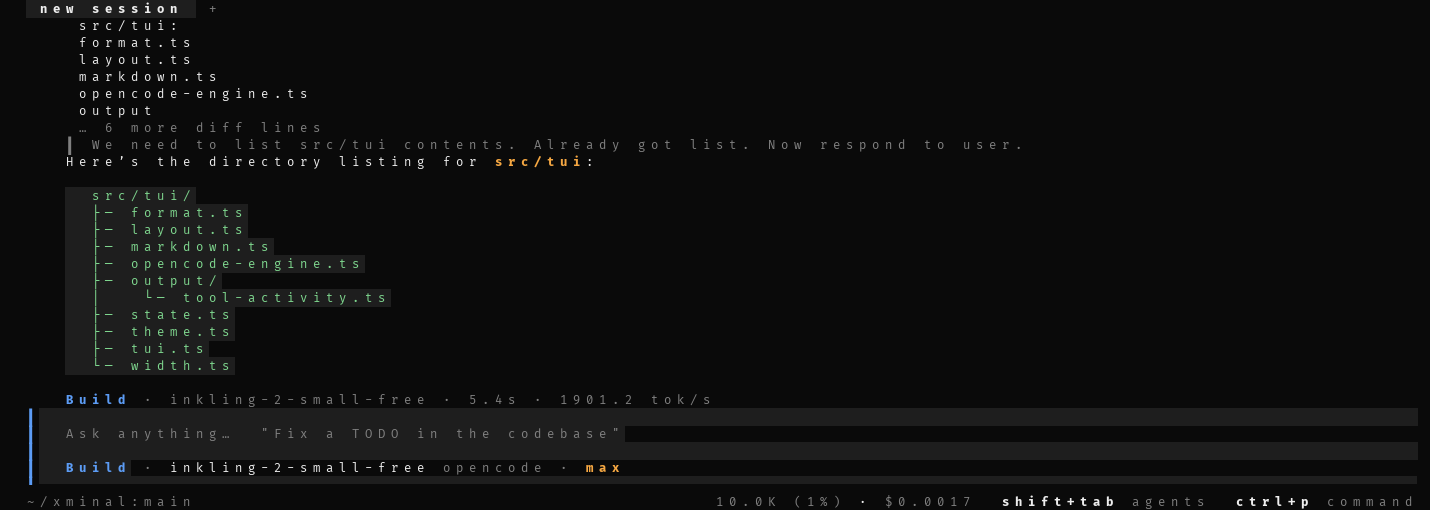
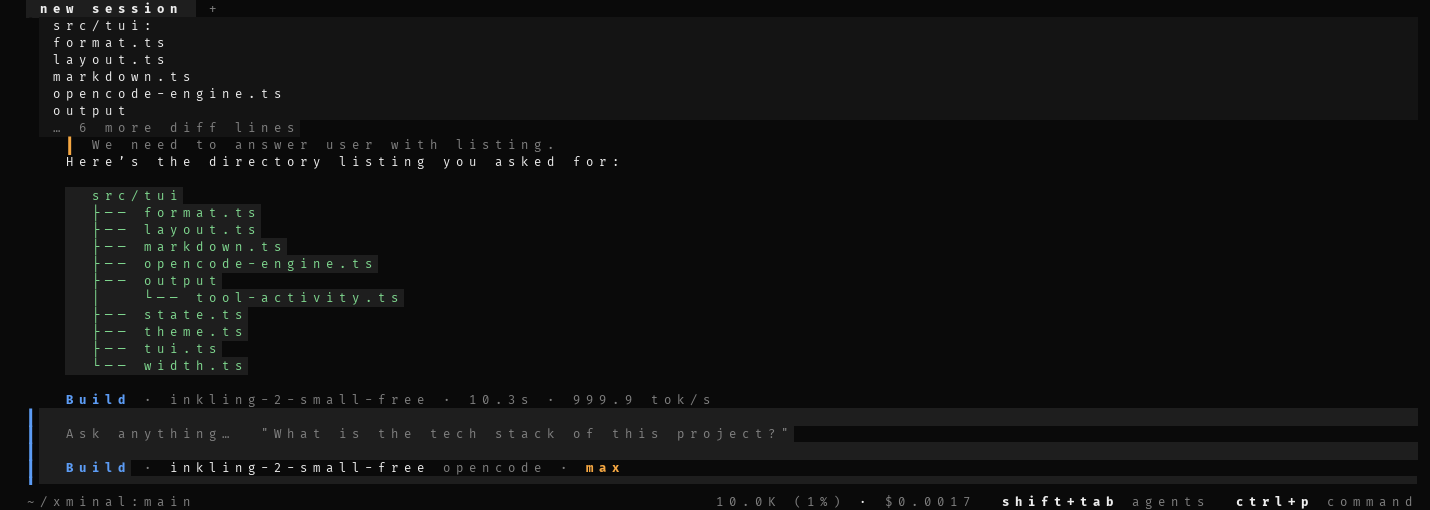
ui: opencode-style diff card + reasoning rule colour
- an edit/write diff renders as a block card (background-coloured ┃ rule +
  raised panel) like opencode's block tools
- the reasoning rule uses opencode's warning colour
- the rasterizer drops a trailing incomplete escape sequence (it printed the
  leftover bytes as text when a capture was cut mid-write)

diff --git a/src/tui/tui.ts b/src/tui/tui.ts
@@ -526,13 +526,22 @@ const sessionRows = (query: string): SessionRow[] => {
         }
         return rows;
       }
-      const out: string[] = renderActivity(a, Math.max(8, w - 5)).map((row) => `   ${row}`);
+      // opencode: an edit/write diff is a block card (rule + raised panel)
       if (a.preview && a.preview.length) {
+        const cardW = Math.max(8, w);
+        const rule = `${rgb(T.bg)}┃${RESET}`;
+        const rows: string[] = [];
         for (const row of a.preview) {
-          out.push(`    ${tintDiffRow(row, () => row, fgMuted, fgAccent, fgGreen, fgRed)}`);
+          const tinted = tintDiffRow(row, () => row, fgMuted, fgAccent, fgGreen, fgRed);
+          rows.push(`${rule}${bgRgb(T.panel)} ${tinted}${" ".repeat(Math.max(0, cardW - 2 - visible(tinted)))}${RESET}`);
         }
-        if (a.extraPreviewLines) out.push(`    ${fgMuted(`… ${a.extraPreviewLines} more diff lines`)}`);
-      } else if (a.status === "err" && a.detail) {
+        if (a.extraPreviewLines) {
+          rows.push(`${rule}${bgRgb(T.panel)} ${fgMuted(`… ${a.extraPreviewLines} more diff lines`)}${" ".repeat(Math.max(0, cardW - 2 - 30))}${RESET}`);
+        }
+        return rows;
+      }
+      const out: string[] = renderActivity(a, Math.max(8, w - 5)).map((row) => `   ${row}`);
+      if (a.status === "err" && a.detail) {
         out.push(`     ${fgMuted(redactSecrets(a.detail).text)}`);
       }
       return out;
@@ -558,7 +567,8 @@ const sessionRows = (query: string): SessionRow[] => {
     if (line.kind === "reasoning") {
       const inner = Math.max(4, w - 6);
       const rows = wrap(line.text, Math.max(4, inner));
-      return rows.map((part) => `   ${fgMuted("┃")} ${fgMuted(part)}`);
+      // opencode: the reasoning rule uses the warning colour
+      return rows.map((part) => `   ${fgAmber("┃")} ${fgMuted(part)}`);
     }
     // ── everything else (ok/err/system) — quiet, indented at col 3
     const color = line.kind === "err" ? fgRed : line.kind === "ok" ? fgGreen : fgMuted;

diff --git a/scripts/media/terminal_raster.py b/scripts/media/terminal_raster.py
@@ -184,6 +184,10 @@ def feed(scr: Screen, data: bytes):
         if tok.startswith(ESC + "]"):
             continue  # OSC, ignore
         if tok.startswith(ESC):
+            # an incomplete escape at the end of the stream (the process was
+            # killed mid-write) must not be printed as text
+            if len(tok) > 1 and tok[1] == "[" and not re.match(r"\x1b\[[0-9;?]*[a-zA-Z@]", tok):
+                continue
             continue  # single-char escape, ignore
         scr.print(tok)
 
